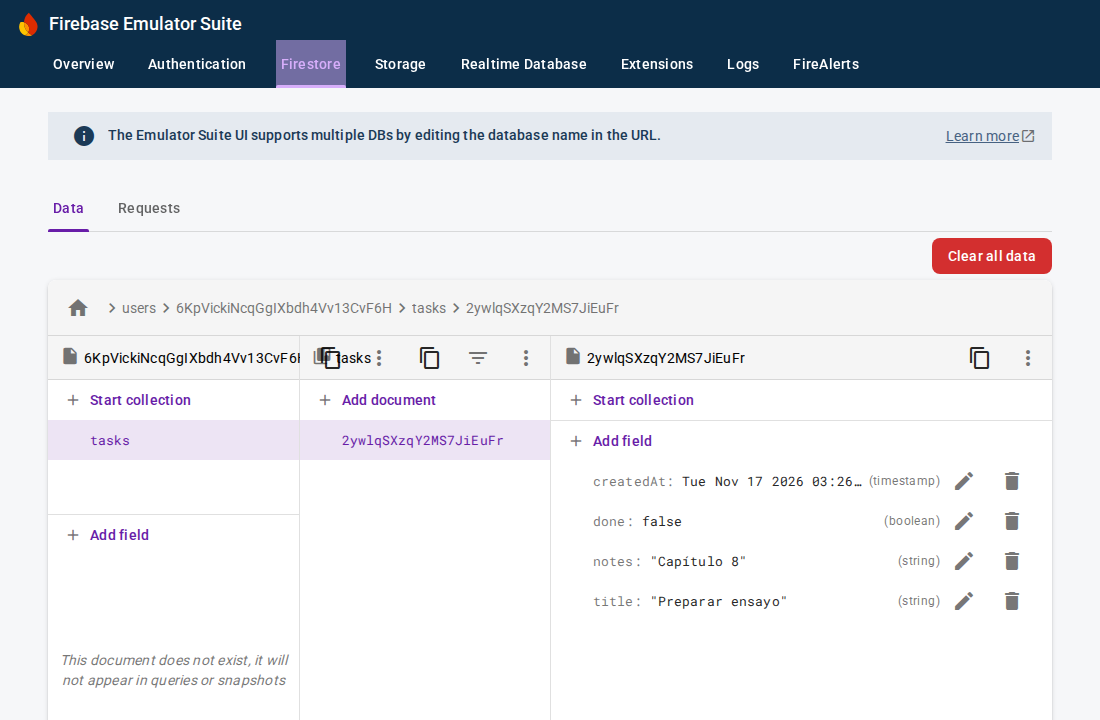
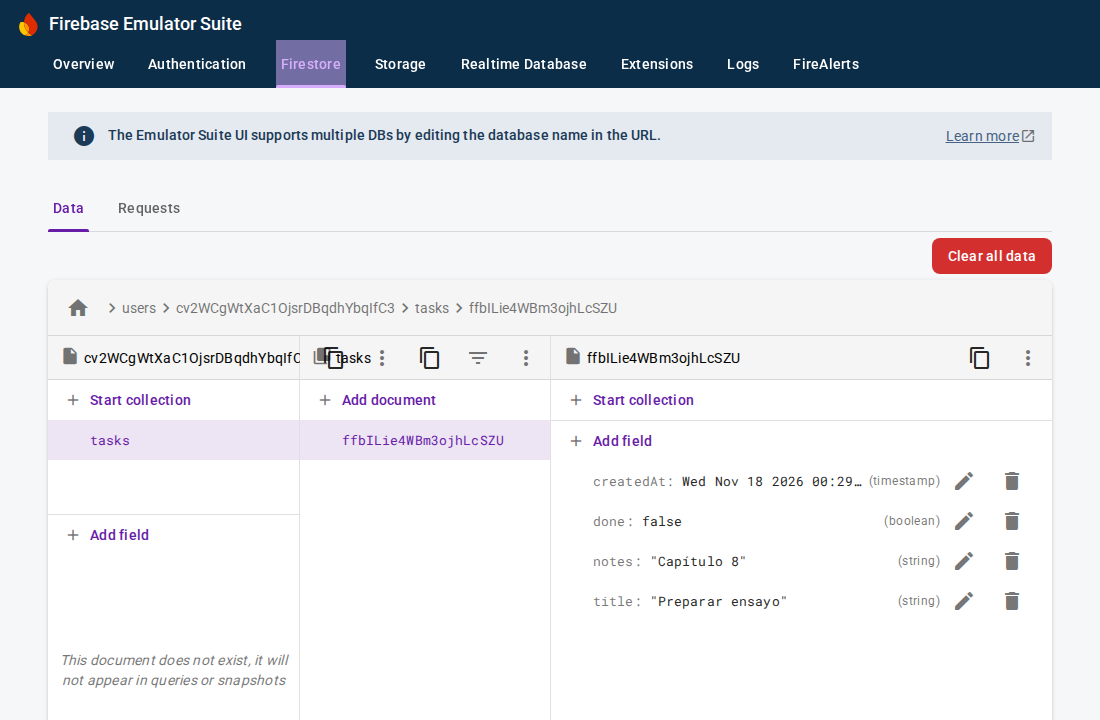
docs: registrar INC-007 y las capturas de Firebase en la nube
- 04 y 08: fila, regresión, ficha y depuración en 5 pasos de INC-007;
  resumen con 7 incidencias cerradas y 9 pruebas en verde. CSV
  regenerado desde la sección 2.
- 01, 03, 08 y README: CP-07 y CP-09 repetidos en el proyecto de prueba
  practica-flutter-pruebas con las capturas 04 y 05 de Firebase Console.
- Evidencias de la ejecución 44207747012 (commit 2f37347): capturas de la
  app y de la consola local, registro funcional con 34 comprobaciones,
  flutter test (9 pruebas), flutter analyze, versión y compilación web.
- 08-historial-git.txt regenerado.

diff --git a/docs/03-plantilla-pruebas.md b/docs/03-plantilla-pruebas.md
@@ -1,6 +1,6 @@
 # Plantilla de pruebas
 
-La cobertura se verifica en Flutter Web con Authentication y Firestore de Firebase Local Emulator Suite. Las cuentas y tareas son ficticias. Cada ronda inicia un contexto de navegador nuevo. CP-19 cierra y vuelve a abrir la aplicación dentro de la misma sesión del navegador y CP-18 recarga después de salir. Las rondas se ejecutan automáticamente en GitHub Actions (Linux, Flutter 3.50.0, Chrome Headless Shell) con el flujo [Integración y pruebas](https://github.com/khoopper/practica-integracion-pruebas-flutter/actions/workflows/integracion-y-pruebas.yml).
+La cobertura se verifica en Flutter Web con Authentication y Firestore de Firebase Local Emulator Suite. Las cuentas y tareas son ficticias. Cada ronda inicia un contexto de navegador nuevo. CP-19 cierra y vuelve a abrir la aplicación dentro de la misma sesión del navegador y CP-18 recarga después de salir. Las rondas se ejecutan automáticamente en GitHub Actions (Linux, Flutter 3.50.0, Chrome Headless Shell) con el flujo [Integración y pruebas](https://github.com/khoopper/practica-integracion-pruebas-flutter/actions/workflows/integracion-y-pruebas.yml). CP-07 y CP-09 se repitieron además contra Firebase en la nube (proyecto de prueba `practica-flutter-pruebas`) con la app compilada por el flujo `web-nube`.
 
 Un resultado aprobado requiere que coincida con lo esperado, que no ocurra ninguna excepción no controlada en el navegador y que pueda repetirse. El registro funcional identifica cada ejecución por ronda y por ID. La evidencia visual complementa el resultado de la aplicación y las operaciones en Firestore.
 
@@ -16,7 +16,7 @@ Se verificó en el orden indicado por la práctica. Ninguna incidencia fue Crít
 | 2 | Autenticación | CP-21, CP-02, CP-03 | Aprobado |
 | 3 | Navegación entre todas las pantallas | CP-05, CP-06 | Aprobado tras corregir INC-002 |
 | 4 | Lectura de datos | CP-08, CP-12A, CP-12B, CP-19 | Aprobado; tras el rediseño visual se corrigieron INC-005 (lista) e INC-006 (lista vacía) |
-| 5 | Escritura y actualización de datos | CP-04, CP-07, CP-09, CP-10, CP-11 | Aprobado tras corregir INC-003 e INC-004 |
+| 5 | Escritura y actualización de datos | CP-04, CP-07, CP-09, CP-10, CP-11 | Aprobado tras corregir INC-003 e INC-004; la repetición en la nube detectó INC-007 (borde de la lista) |
 | 6 | Notificaciones push en tres estados | CP-14 a CP-17 | No ejecutado: FCM fuera del alcance |
 | 7 | Flujo completo de extremo a extremo | CP-20 | Aprobado |
 
@@ -30,9 +30,9 @@ Se verificó en el orden indicado por la práctica. Ninguna incidencia fue Crít
 | CP-04 | Validación | Abrir Nueva tarea y pulsar Guardar sin escribir título. | Se solicita un título válido y no se guarda un documento. | Apareció «Escribe al menos 3 caracteres». Firestore devolvió cero documentos. Al corregir el título el aviso desapareció. | Aprobado | [Validación](evidencias/capturas-aplicacion/04-validacion.png), [formulario corregido](evidencias/capturas-aplicacion/05-formulario.png) |
 | CP-05 | Navegación | Abrir registro, acceder a Mis tareas, pulsar Nueva tarea y seleccionar una tarea guardada. | Cada acción abre la vista correspondiente. | Se vieron los controles de acceso, registro, lista, alta y detalle. | Aprobado | [Detalle](evidencias/capturas-aplicacion/08-detalle.png), [registro funcional](evidencias/pruebas-y-analisis/07-pruebas-funcionales.txt) |
 | CP-06 | Navegación | Pulsar Atrás desde el detalle de «Preparar ensayo». | Vuelve a la lista y conserva las tareas. | Atrás regresó a la lista de dos registros. La etiqueta estaba en español. | Aprobado | [Registro funcional](evidencias/pruebas-y-analisis/07-pruebas-funcionales.txt) |
-| CP-07 | Datos | Guardar «Preparar ensayo» con la nota «Capítulo 8». | El registro aparece pendiente en UI y Firebase. | Apareció una tarea pendiente con el título y la nota esperados en ambas vistas. | Aprobado | [App](evidencias/capturas-aplicacion/06-creada.png), [Firestore](evidencias/firebase/01-firestore-creacion.png) |
+| CP-07 | Datos | Guardar «Preparar ensayo» con la nota «Capítulo 8». | El registro aparece pendiente en UI y Firebase. | Apareció una tarea pendiente con el título y la nota esperados en ambas vistas. En la nube, el documento `ZOCZceCcVfiNfta0F3iY` quedó con `done: false`. | Aprobado | [App](evidencias/capturas-aplicacion/06-creada.png), [Firestore](evidencias/firebase/01-firestore-creacion.png), [Firestore en la nube](evidencias/firebase/04-firestore-nube-tarea-creada.png) |
 | CP-08 | Datos | Crear «Leer apuntes» después de «Preparar ensayo». | Se muestran los dos registros, con el más reciente primero. | «Leer apuntes» apareció encima de «Preparar ensayo» y Firestore devolvió dos documentos. | Aprobado | [Lista ordenada](evidencias/capturas-aplicacion/07-lista-ordenada.png) |
-| CP-09 | Datos | Completar «Preparar ensayo». Cambiar el título a «Entregar ensayo revisado» y la nota a «Versión final». | Los cambios se reflejan en UI y Firestore. Se conserva el estado y el documento. | Firestore devolvió el mismo ID con nuevo título y nota, y `done: true`. La UI mantuvo la casilla marcada. | Aprobado | [App](evidencias/capturas-aplicacion/09-actualizada.png), [Firestore](evidencias/firebase/02-firestore-actualizacion.png) |
+| CP-09 | Datos | Completar «Preparar ensayo». Cambiar el título a «Entregar ensayo revisado» y la nota a «Versión final». | Los cambios se reflejan en UI y Firestore. Se conserva el estado y el documento. | Firestore devolvió el mismo ID con nuevo título y nota, y `done: true`. La UI mantuvo la casilla marcada. En la nube, el mismo documento pasó a «Entregar ensayo revisado» con `done: true`. | Aprobado | [App](evidencias/capturas-aplicacion/09-actualizada.png), [Firestore](evidencias/firebase/02-firestore-actualizacion.png), [Firestore en la nube](evidencias/firebase/05-firestore-nube-tarea-modificada.png) |
 | CP-10 | Datos | Eliminar «Leer apuntes» desde su detalle y confirmar. | Desaparece de UI y de Firestore. | La app mostró solo la tarea revisada. Firestore devolvió un documento. | Aprobado | [Después del borrado](evidencias/capturas-aplicacion/11-eliminada.png) |
 | CP-11 | Reglas de datos | En el emulador, consultar con B el documento de A creado por la prueba. | Firestore rechaza la lectura. | La lista propia de B estaba vacía. La lectura del documento de A devolvió HTTP 403 `PERMISSION_DENIED`. | Aprobado | [Registro funcional](evidencias/pruebas-y-analisis/07-pruebas-funcionales.txt) |
 | CP-12A | Estados | Iniciar sesión con la cuenta nueva A. | La lista muestra el estado vacío. | Apareció «Todavía no tienes tareas» y Firestore devolvió cero documentos. | Aprobado | [Lista vacía](evidencias/capturas-aplicacion/03-lista-vacia.png) |
@@ -46,9 +46,9 @@ Se verificó en el orden indicado por la práctica. Ninguna incidencia fue Crít
 
 ## Resultados
 
-Los **17 casos aplicables** se aprobaron en **dos rondas**, con **34 comprobaciones aprobadas**. La ejecución vigente es la del 17/11/2026 03:26 UTC sobre el diseño final (commit `35539d7`, [ejecución 44009914991](https://github.com/khoopper/practica-integracion-pruebas-flutter/actions/runs/44009914991)); la primera ejecución del 15/11/2026 obtuvo el mismo resultado con el diseño anterior. Se cubrieron los cuatro flujos críticos y los casos negativos de contraseña, título y permisos. [Registro funcional completo](evidencias/pruebas-y-analisis/07-pruebas-funcionales.txt)
+Los **17 casos aplicables** se aprobaron en **dos rondas**, con **34 comprobaciones aprobadas**. La ejecución vigente es la del 17/11/2026 18:28 h, UTC-6 (00:28 UTC del 18/11/2026), sobre el diseño final con INC-007 corregida (commit `2f37347`, [ejecución 44207747012](https://github.com/khoopper/practica-integracion-pruebas-flutter/actions/runs/44207747012)); la primera ejecución del 15/11/2026 obtuvo el mismo resultado con el diseño anterior. Se cubrieron los cuatro flujos críticos y los casos negativos de contraseña, título y permisos. [Registro funcional completo](evidencias/pruebas-y-analisis/07-pruebas-funcionales.txt)
 
 - El análisis inicial mostró 0 errores, 0 advertencias y 4 diagnósticos informativos. El análisis final quedó sin diagnósticos. [Análisis inicial](evidencias/pruebas-y-analisis/01-flutter-analyze-inicial.txt) · [Análisis final](evidencias/pruebas-y-analisis/04-flutter-analyze-final.txt)
-- Pasaron 3 pruebas unitarias y 5 de widget. [Salida de flutter test](evidencias/pruebas-y-analisis/05-flutter-test-final.txt) · [Salida en GitHub Actions con el diseño final](evidencias/pruebas-y-analisis/10-flutter-test-ci.txt) · [Análisis en GitHub Actions](evidencias/pruebas-y-analisis/11-flutter-analyze-ci.txt)
+- Pasaron 3 pruebas unitarias y 6 de widget, incluida la regresión de INC-007. [Salida de flutter test](evidencias/pruebas-y-analisis/05-flutter-test-final.txt) · [Salida en GitHub Actions con el diseño final](evidencias/pruebas-y-analisis/10-flutter-test-ci.txt) · [Análisis en GitHub Actions](evidencias/pruebas-y-analisis/11-flutter-analyze-ci.txt)
 - El arranque se realizó con `flutter run`. El registro contiene la compilación y la dirección servida. [Ejecución](evidencias/pruebas-y-analisis/06-flutter-run.txt) · [Compilación web en GitHub Actions](evidencias/pruebas-y-analisis/15-flutter-build-web-ci.txt)
-- Se registraron y corrigieron 6 incidencias; el detalle está en [04-registro-incidencias.md](04-registro-incidencias.md).
+- Se registraron y corrigieron 7 incidencias; el detalle está en [04-registro-incidencias.md](04-registro-incidencias.md).

diff --git a/docs/04-registro-incidencias.md b/docs/04-registro-incidencias.md
@@ -8,6 +8,7 @@
 | INC-004 | Un título corregido seguía marcado en rojo hasta pulsar Guardar otra vez. | Baja | P3 | Validación de la interfaz | El formulario validaba solamente al enviar. El estado del error seguía visible durante la corrección. | Revalidación al editar un campo con error. Commit `7859963`. | Cerrada. La prueba de widget verifica que se retira el aviso al corregir. |
 | INC-005 | Después del rediseño visual, la prueba de widget «una tarea completada abre el detalle y permite volver» falló en GitHub Actions con `ListTile background color or ink splashes may be invisible`. | Baja | P2 | UI | La hoja blanca de la lista pintaba su fondo con un `DecoratedBox` entre cada `ListTile` y el `Material` del `Scaffold`, que tapaba el hover y el ripple de las filas. | La hoja envuelve su contenido en un `Material` transparente. Commit `5658eb8`. | Cerrada. La misma prueba pasó en la ejecución siguiente de GitHub Actions. |
 | INC-006 | Después del rediseño, las pruebas funcionales fallaron en CP-12A: el mensaje «Todavía no tienes tareas.» no aparecía como elemento propio. | Baja | P2 | UI (accesibilidad) | Flutter Web unía la etiqueta «HOJA EN BLANCO», el mensaje y la ayuda de la hoja vacía en un solo elemento accesible. Un lector de pantalla leía todo junto y el caso no podía ubicar el mensaje. | Las etiquetas decorativas usan `ExcludeSemantics` y los mensajes y sellos tienen un nodo `Semantics(container: true)` propio. Commit `93e73cb`. | Cerrada. Las dos rondas de casos funcionales pasaron en GitHub Actions. |
+| INC-007 | En la prueba manual contra Firebase en la nube, la fila de la lista con el puntero o el foco tapaba el borde de tinta de la hoja y la casilla mostraba un halo circular. | Baja | P3 | UI | El `Material` que agregó INC-005 ocupaba toda la hoja, incluido su borde de 1.5 px. La `ListTile` pinta el hover y el foco en todo su rectángulo, que empezaba sobre ese borde. La casilla usaba el halo por defecto de Material 3. | La hoja deja un margen del grosor del borde antes de su `Material`, la casilla marca el foco y el hover engrosando su borde violeta y la fila usa el mismo color sólido para hover y foco. Commit `94b92c4`. | Cerrada. La prueba de widget INC-007 y la captura de la lista actualizada lo verifican. |
 
 ## Depuración de INC-003
 
@@ -43,3 +44,14 @@ La regresión se ejecutó antes y después en el entorno de pruebas. La repetici
 5. **Corregir y proteger.** Las etiquetas decorativas (`Etiqueta`) se excluyen de la semántica y los mensajes (`Mensaje`) y sellos (`Sello`) son contenedores semánticos. Las pruebas funcionales buscan cada mensaje por su texto exacto y fallan si vuelve a fusionarse.
 
 - [Registro de la ronda con la falla](evidencias/pruebas-y-analisis/13-inc-006-pruebas-funcionales-antes.txt) y [registro funcional después de la corrección](evidencias/pruebas-y-analisis/07-pruebas-funcionales.txt).
+
+## Depuración de INC-007
+
+1. **Reproducir.** Compilar la app con el flujo [App web contra Firebase en la nube](https://github.com/khoopper/practica-integracion-pruebas-flutter/actions/workflows/web-nube.yml), crear «Leer apuntes» y «Entregar ensayo revisado», completar la segunda y pasar el puntero o el foco del teclado por su fila (commit `35539d7`).
+2. **Leer.** El relleno de la fila cubría el borde izquierdo de tinta de la hoja y la casilla mostraba un círculo de color alrededor. El mismo corte del borde aparecía en la captura `09-actualizada.png` de GitHub Actions, porque al volver del editor el foco regresa a la fila editada.
+3. **Formular la hipótesis.** Desde INC-005, la hoja de la lista coloca su `Material` dentro del `DecoratedBox` sin margen. La `ListTile` dibuja el hover y el foco en todo su rectángulo, que empieza en el mismo píxel que el borde de 1.5 px. El halo es la superposición circular por defecto del `Checkbox` de Material 3.
+4. **Comprobar.** Solo la hoja de la lista de tareas tiene relleno interno cero; las demás hojas (acceso, editor, lista vacía y error de lectura) tienen entre 10 y 28 px de relleno y su borde no se tapa. Sin hover ni foco, la fila no pinta relleno y el borde se ve completo.
+5. **Corregir y proteger.** `Hoja` deja un margen de 1.5 px antes de su `Material` y el tema de la casilla usa una superposición transparente con un borde violeta de 2.4 px en hover y foco. La prueba de widget «INC-007 las filas no tapan el borde de la hoja» comprueba que cada fila empieza dentro del borde y que la casilla no tiene halo.
+
+- [Lista antes de la corrección](evidencias/capturas-aplicacion/00-inc-007-antes.png) y [lista después de la corrección](evidencias/capturas-aplicacion/09-actualizada.png).
+- [Salida de `flutter test` con la prueba INC-007](evidencias/pruebas-y-analisis/10-flutter-test-ci.txt).

diff --git a/README.md b/README.md
@@ -14,10 +14,11 @@ Práctica de integración y pruebas de **Flutter Web**. La aplicación permite c
 | --- | --- |
 | Casos ejecutados | 17 de 22 planificados (5 fuera del alcance: Storage y FCM), en dos rondas |
 | Flujos críticos aprobados | 100 % (17 ÷ 17) |
-| Incidencias | 6 registradas (INC-001 a INC-006), 6 corregidas con commit `fix: INC-00X` y re-probadas |
-| `flutter test` | 8 pruebas en verde: 3 unitarias y 5 de widget con repositorio falso |
+| Incidencias | 7 registradas (INC-001 a INC-007), 7 corregidas con commit `fix: INC-00X` y re-probadas |
+| `flutter test` | 9 pruebas en verde: 3 unitarias y 6 de widget con repositorio falso |
 | `flutter analyze` | 4 diagnósticos informativos al inicio · «No issues found!» al final |
 | Integración continua | `flutter analyze`, `flutter test` y las dos rondas de casos funcionales se ejecutan en cada push en GitHub Actions |
+| Firebase en la nube | CP-07 y CP-09 repetidos en el proyecto de prueba `practica-flutter-pruebas`, con capturas de Firebase Console |
 
 ![Lista de tareas con una tarea pendiente y otra completada](docs/evidencias/capturas-aplicacion/09-actualizada.png)
 
@@ -73,7 +74,7 @@ python -m playwright install chromium
 python integration_test/validar_web.py
 ```
 
-Puedes pasar `--chrome RUTA_DEL_EJECUTABLE` para usar otro Chromium. `--evidencias` vuelve a capturar las imágenes en `docs/evidencias/`. Durante el caso sin conexión Playwright desactiva temporalmente la red del navegador de prueba.
+Puedes pasar `--chrome RUTA_DEL_EJECUTABLE` para usar otro Chromium. `--evidencias` vuelve a capturar las imágenes en `docs/evidencias/`. Durante el caso sin conexión Playwright desactiva temporalmente la red del navegador de prueba. Flutter Web conecta cada campo y cada botón unos cuadros después de mostrarlos, así que el verificador espera a que el texto escrito se conserve y repite un clic de Auth solo si la solicitud no llegó a salir.
 
 ## Atestados
 
@@ -87,7 +88,7 @@ Puedes pasar `--chrome RUTA_DEL_EJECUTABLE` para usar otro Chromium. `--evidenci
 | [Registro de incidencias](docs/04-registro-incidencias.md) | Causas, correcciones, commits y regresiones |
 | [Reflexión final](docs/05-reflexion-final.md) | Aprendizaje de la incidencia de guardado |
 | [Capturas de la aplicación](docs/evidencias/capturas-aplicacion/) | Evidencia del flujo principal |
-| [Capturas de Firebase Local Emulator Suite](docs/evidencias/firebase/) | Cuentas ficticias y datos creados y actualizados |
+| [Capturas de Firebase](docs/evidencias/firebase/) | Consola local de emuladores (01 a 03) y Firebase Console en la nube (04 y 05): cuentas ficticias y tareas creadas y actualizadas |
 | [Pruebas y análisis](docs/evidencias/pruebas-y-analisis/) | Salidas de ejecución reproducibles |
 
 ## Ejecutar con Firebase en la nube
@@ -104,7 +105,7 @@ flutter run -d chrome --dart-define-from-file=firebase.local.json
 
 Si en el equipo no se puede ejecutar Flutter, el flujo [App web contra Firebase en la nube](.github/workflows/web-nube.yml) compila la app con los valores guardados como secretos del repositorio (`FIREBASE_PROJECT_ID`, `FIREBASE_APP_ID`, `FIREBASE_API_KEY`, `FIREBASE_MESSAGING_SENDER_ID` y `FIREBASE_AUTH_DOMAIN`). El artefacto `web-nube` se sirve con `python -m http.server 5000` y se abre en `http://localhost:5000`.
 
-Usa cuentas ficticias. Crea y modifica una tarea, y captura los datos en Firestore de Firebase Console. Guarda esas capturas en `docs/evidencias/firebase/` con nombres que indiquen la operación. Las capturas incluidas en esta entrega proceden de la consola local de Firebase.
+Usa cuentas ficticias. Crea y modifica una tarea, y captura los datos en Firestore de Firebase Console. Guarda esas capturas en `docs/evidencias/firebase/` con nombres que indiquen la operación. Así se tomaron `04-firestore-nube-tarea-creada.png` y `05-firestore-nube-tarea-modificada.png` en el proyecto de prueba `practica-flutter-pruebas`; las capturas 01 a 03 proceden de la consola local de emuladores.
 
 ## Clonar el repositorio
 

diff --git a/docs/01-declaracion-alcance.md b/docs/01-declaracion-alcance.md
@@ -13,6 +13,6 @@
 | API REST externa | No | La app usa los SDK de Firebase. El verificador consulta las interfaces locales de los emuladores. |
 | Otros servicios | No | El alcance de Firebase se limita a Auth y Firestore. |
 
-Las vistas verificadas son acceso, registro, lista, formulario de creación y detalle editable. La ejecución usa el proyecto `demo-practica-flutter` y cuentas ficticias. El modo con Firebase en la nube queda configurado mediante las opciones web locales del proyecto. Las capturas disponibles corresponden a Firebase Local Emulator Suite.
+Las vistas verificadas son acceso, registro, lista, formulario de creación y detalle editable. La ejecución usa el proyecto `demo-practica-flutter` y cuentas ficticias. El modo con Firebase en la nube se verificó con el proyecto de prueba `practica-flutter-pruebas` (Authentication con correo y contraseña, Firestore con las reglas de `firestore.rules`). Las capturas `04` y `05` de `docs/evidencias/firebase/` muestran en Firebase Console la tarea creada y modificada; el resto de las capturas corresponde a Firebase Local Emulator Suite.
 
-Los casos de Storage (CP-13) y FCM (CP-14 a CP-17) tienen estado **No ejecutado** con el motivo «fuera del alcance declarado». La declaración también está en la [plantilla oficial 08](08-plantilla-pruebas-e-incidencias.md#0-declaración-de-alcance). La captura de Firebase Console en la nube y la repetición supervisada en clase quedan pendientes.
+Los casos de Storage (CP-13) y FCM (CP-14 a CP-17) tienen estado **No ejecutado** con el motivo «fuera del alcance declarado». La declaración también está en la [plantilla oficial 08](08-plantilla-pruebas-e-incidencias.md#0-declaración-de-alcance). La repetición supervisada de INC-003 en clase queda pendiente.

diff --git a/docs/05-reflexion-final.md b/docs/05-reflexion-final.md
@@ -10,6 +10,6 @@ La regresión verifica que se mantiene el editor mientras espera y que se vuelve
 
 En Firestore verifiqué que editar una tarea mantiene su identificador y su estado de completada.
 
-Al rediseñar la interfaz, la prueba de widget y las rondas funcionales detectaron dos defectos nuevos (INC-005 e INC-006) antes de la entrega.
+Al rediseñar la interfaz, la prueba de widget y las rondas funcionales detectaron dos defectos nuevos (INC-005 e INC-006), y la prueba manual en la nube reveló un tercero (INC-007) que ninguna prueba automática medía.
 
 En la próxima integración incluiría una prueba de demora en cada flujo que combina una escritura con un cambio de pantalla.
